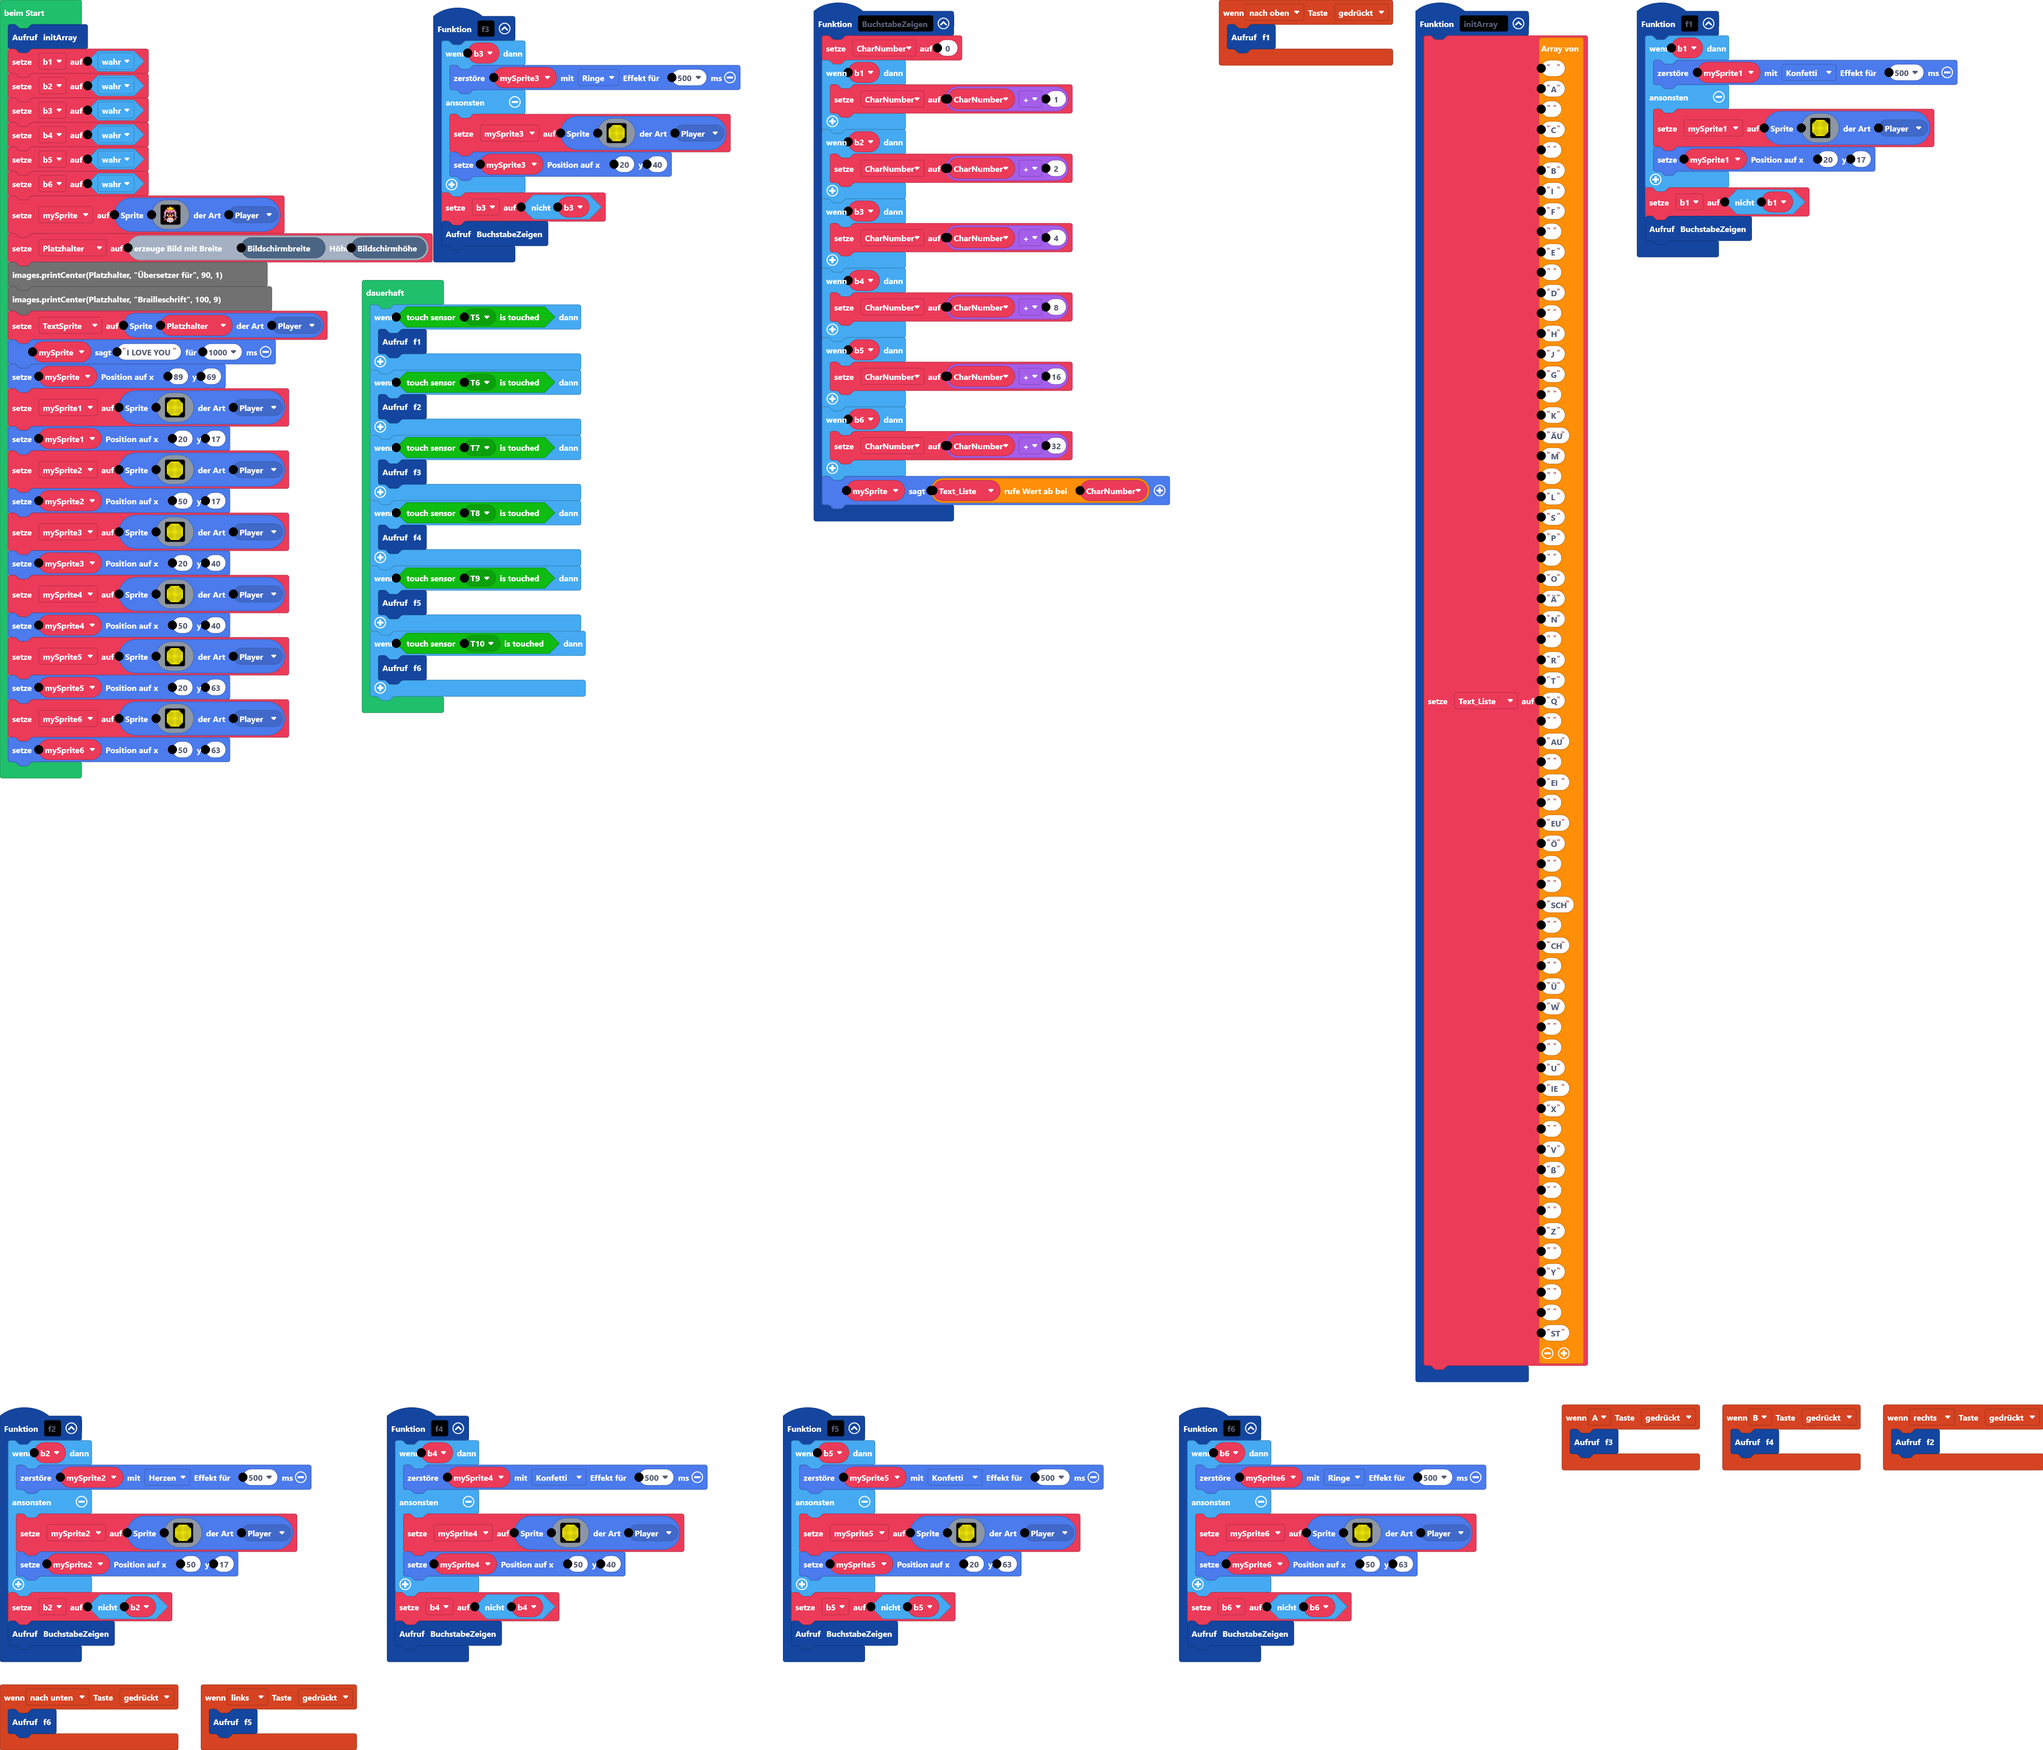
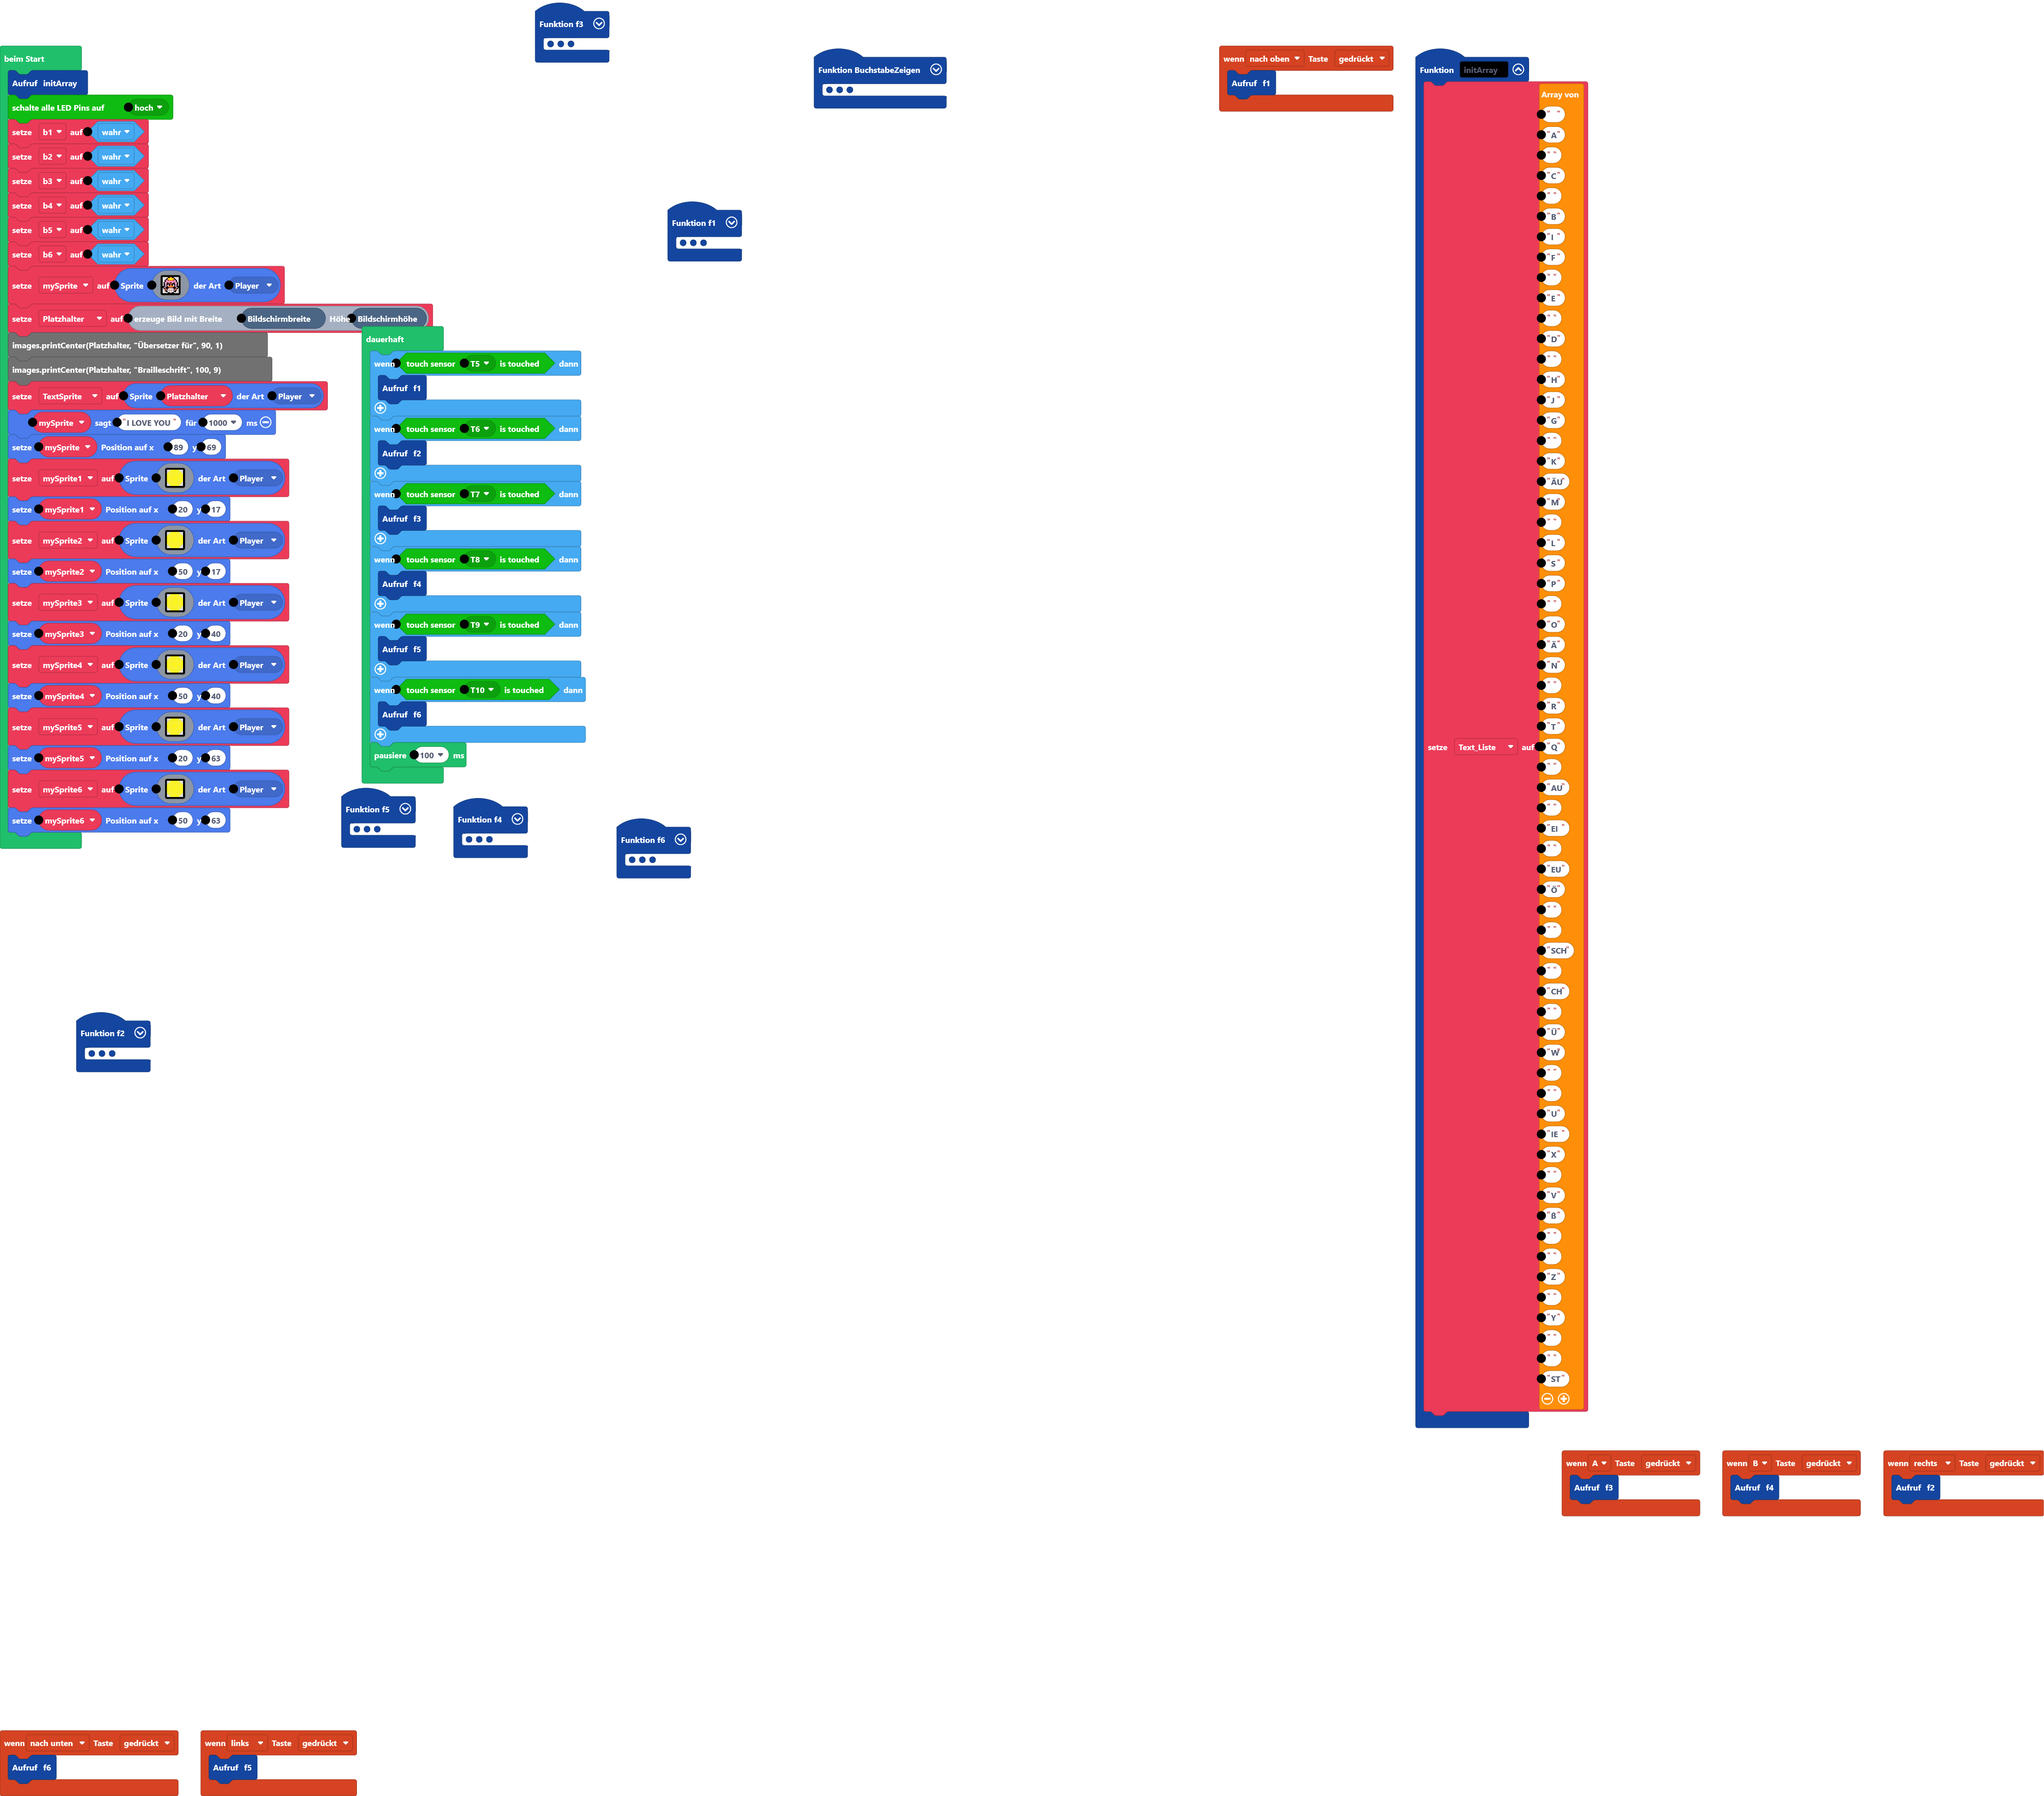
Aktualisiere pxt.json, main.blocks, main.ts, touch.ts

diff --git a/main.ts b/main.ts
@@ -4,6 +4,7 @@ function initArray () {
 function f3 () {
     if (b3) {
         mySprite3.destroy(effects.rings, 500)
+        makerbit.setDigitalPin(7, makerbit.level(PinLevel.Low))
     } else {
         mySprite3 = sprites.create(img`
 . . . . 5 5 5 5 5 5 5 5 5 . . . . 
@@ -25,6 +26,7 @@ function f3 () {
 . . . . 5 5 5 5 5 5 5 5 5 . . . . 
 `, SpriteKind.Player)
         mySprite3.setPosition(20, 40)
+        makerbit.setDigitalPin(7, makerbit.level(PinLevel.High))
     }
     b3 = !(b3)
     BuchstabeZeigen()
@@ -38,6 +40,7 @@ controller.down.onEvent(ControllerButtonEvent.Pressed, function () {
 function f6 () {
     if (b6) {
         mySprite6.destroy(effects.rings, 500)
+        makerbit.setDigitalPin(10, makerbit.level(PinLevel.Low))
     } else {
         mySprite6 = sprites.create(img`
 . . . . 5 5 5 5 5 5 5 5 5 . . . . 
@@ -59,6 +62,7 @@ function f6 () {
 . . . . 5 5 5 5 5 5 5 5 5 . . . . 
 `, SpriteKind.Player)
         mySprite6.setPosition(50, 63)
+        makerbit.setDigitalPin(10, makerbit.level(PinLevel.High))
     }
     b6 = !(b6)
     BuchstabeZeigen()
@@ -68,7 +72,8 @@ controller.B.onEvent(ControllerButtonEvent.Pressed, function () {
 })
 function f5 () {
     if (b5) {
-        mySprite5.destroy(effects.confetti, 500)
+        mySprite5.destroy(effects.halo, 500)
+        makerbit.setDigitalPin(9, makerbit.level(PinLevel.Low))
     } else {
         mySprite5 = sprites.create(img`
 . . . . 5 5 5 5 5 5 5 5 5 . . . . 
@@ -90,6 +95,7 @@ function f5 () {
 . . . . 5 5 5 5 5 5 5 5 5 . . . . 
 `, SpriteKind.Player)
         mySprite5.setPosition(20, 63)
+        makerbit.setDigitalPin(9, makerbit.level(PinLevel.High))
     }
     b5 = !(b5)
     BuchstabeZeigen()
@@ -100,6 +106,7 @@ controller.A.onEvent(ControllerButtonEvent.Pressed, function () {
 function f4 () {
     if (b4) {
         mySprite4.destroy(effects.confetti, 500)
+        makerbit.setDigitalPin(8, makerbit.level(PinLevel.Low))
     } else {
         mySprite4 = sprites.create(img`
 . . . . 5 5 5 5 5 5 5 5 5 . . . . 
@@ -121,6 +128,7 @@ function f4 () {
 . . . . 5 5 5 5 5 5 5 5 5 . . . . 
 `, SpriteKind.Player)
         mySprite4.setPosition(50, 40)
+        makerbit.setDigitalPin(8, makerbit.level(PinLevel.High))
     }
     b4 = !(b4)
     BuchstabeZeigen()
@@ -131,6 +139,7 @@ controller.right.onEvent(ControllerButtonEvent.Pressed, function () {
 function f2 () {
     if (b2) {
         mySprite2.destroy(effects.hearts, 500)
+        makerbit.setDigitalPin(6, makerbit.level(PinLevel.Low))
     } else {
         mySprite2 = sprites.create(img`
 . . . . 5 5 5 5 5 5 5 5 5 . . . . 
@@ -152,6 +161,7 @@ function f2 () {
 . . . . 5 5 5 5 5 5 5 5 5 . . . . 
 `, SpriteKind.Player)
         mySprite2.setPosition(50, 17)
+        makerbit.setDigitalPin(6, makerbit.level(PinLevel.High))
     }
     b2 = !(b2)
     BuchstabeZeigen()
@@ -181,6 +191,7 @@ function BuchstabeZeigen () {
 function f1 () {
     if (b1) {
         mySprite1.destroy(effects.confetti, 500)
+        makerbit.setDigitalPin(5, makerbit.level(PinLevel.Low))
     } else {
         mySprite1 = sprites.create(img`
 . . . . 5 5 5 5 5 5 5 5 5 . . . . 
@@ -202,6 +213,7 @@ function f1 () {
 . . . . 5 5 5 5 5 5 5 5 5 . . . . 
 `, SpriteKind.Player)
         mySprite1.setPosition(20, 17)
+        makerbit.setDigitalPin(5, makerbit.level(PinLevel.High))
     }
     b1 = !(b1)
     BuchstabeZeigen()
@@ -225,6 +237,7 @@ let b3 = false
 let b2 = false
 let b1 = false
 initArray()
+makerbit.setLedPins(makerbit.level(PinLevel.High))
 b1 = true
 b2 = true
 b3 = true
@@ -394,4 +407,5 @@ forever(function () {
     if (makerbit.isTouched(makerbit.touchSensorIndex(TouchSensor.T10))) {
         f6()
     }
+    pause(200)
 })

diff --git a/touch.ts b/touch.ts
@@ -26,7 +26,7 @@ const enum TouchAction {
 
 namespace makerbit {
   const MPR121_ADDRESS = 0x5a;
-  const TOUCH_STATUS_PAUSE_BETWEEN_READ = 50;
+  const TOUCH_STATUS_PAUSE_BETWEEN_READ =50;//changed
 
   interface TouchController {
     lastTouchStatus: number;
